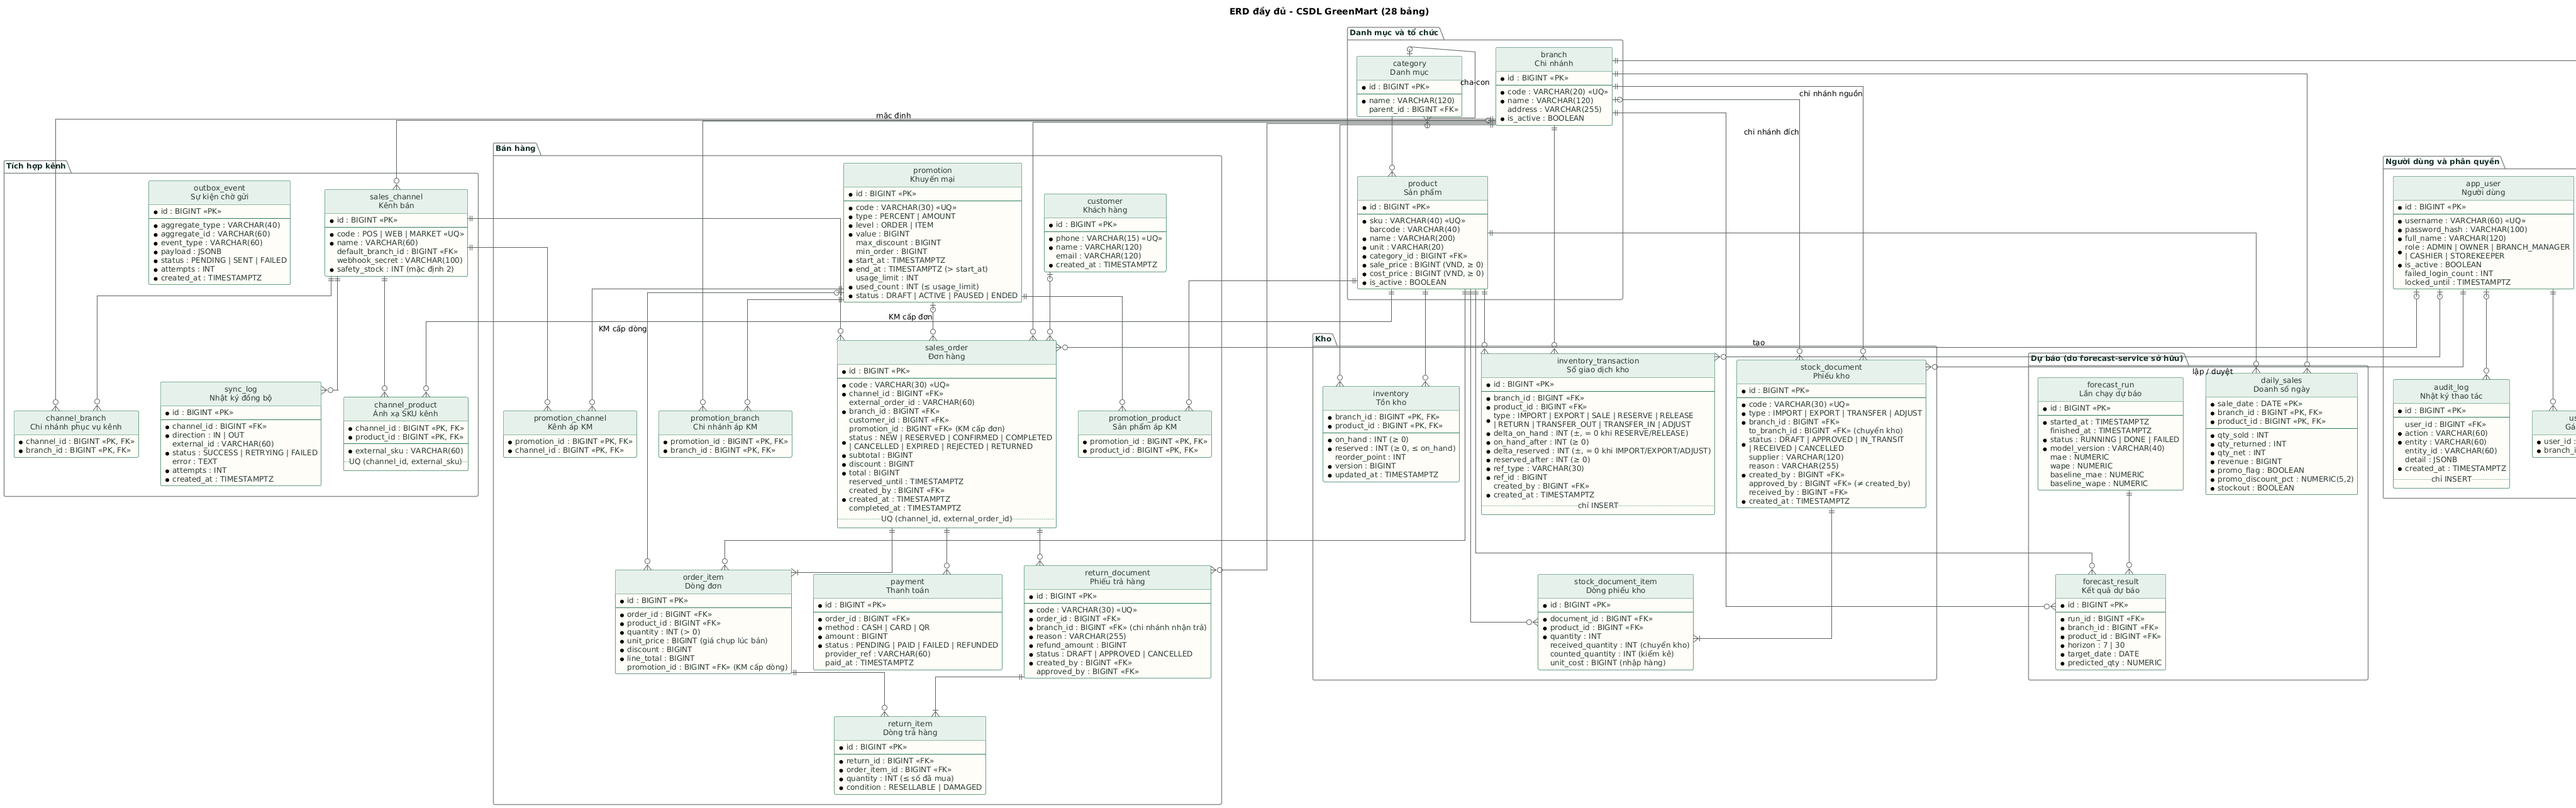
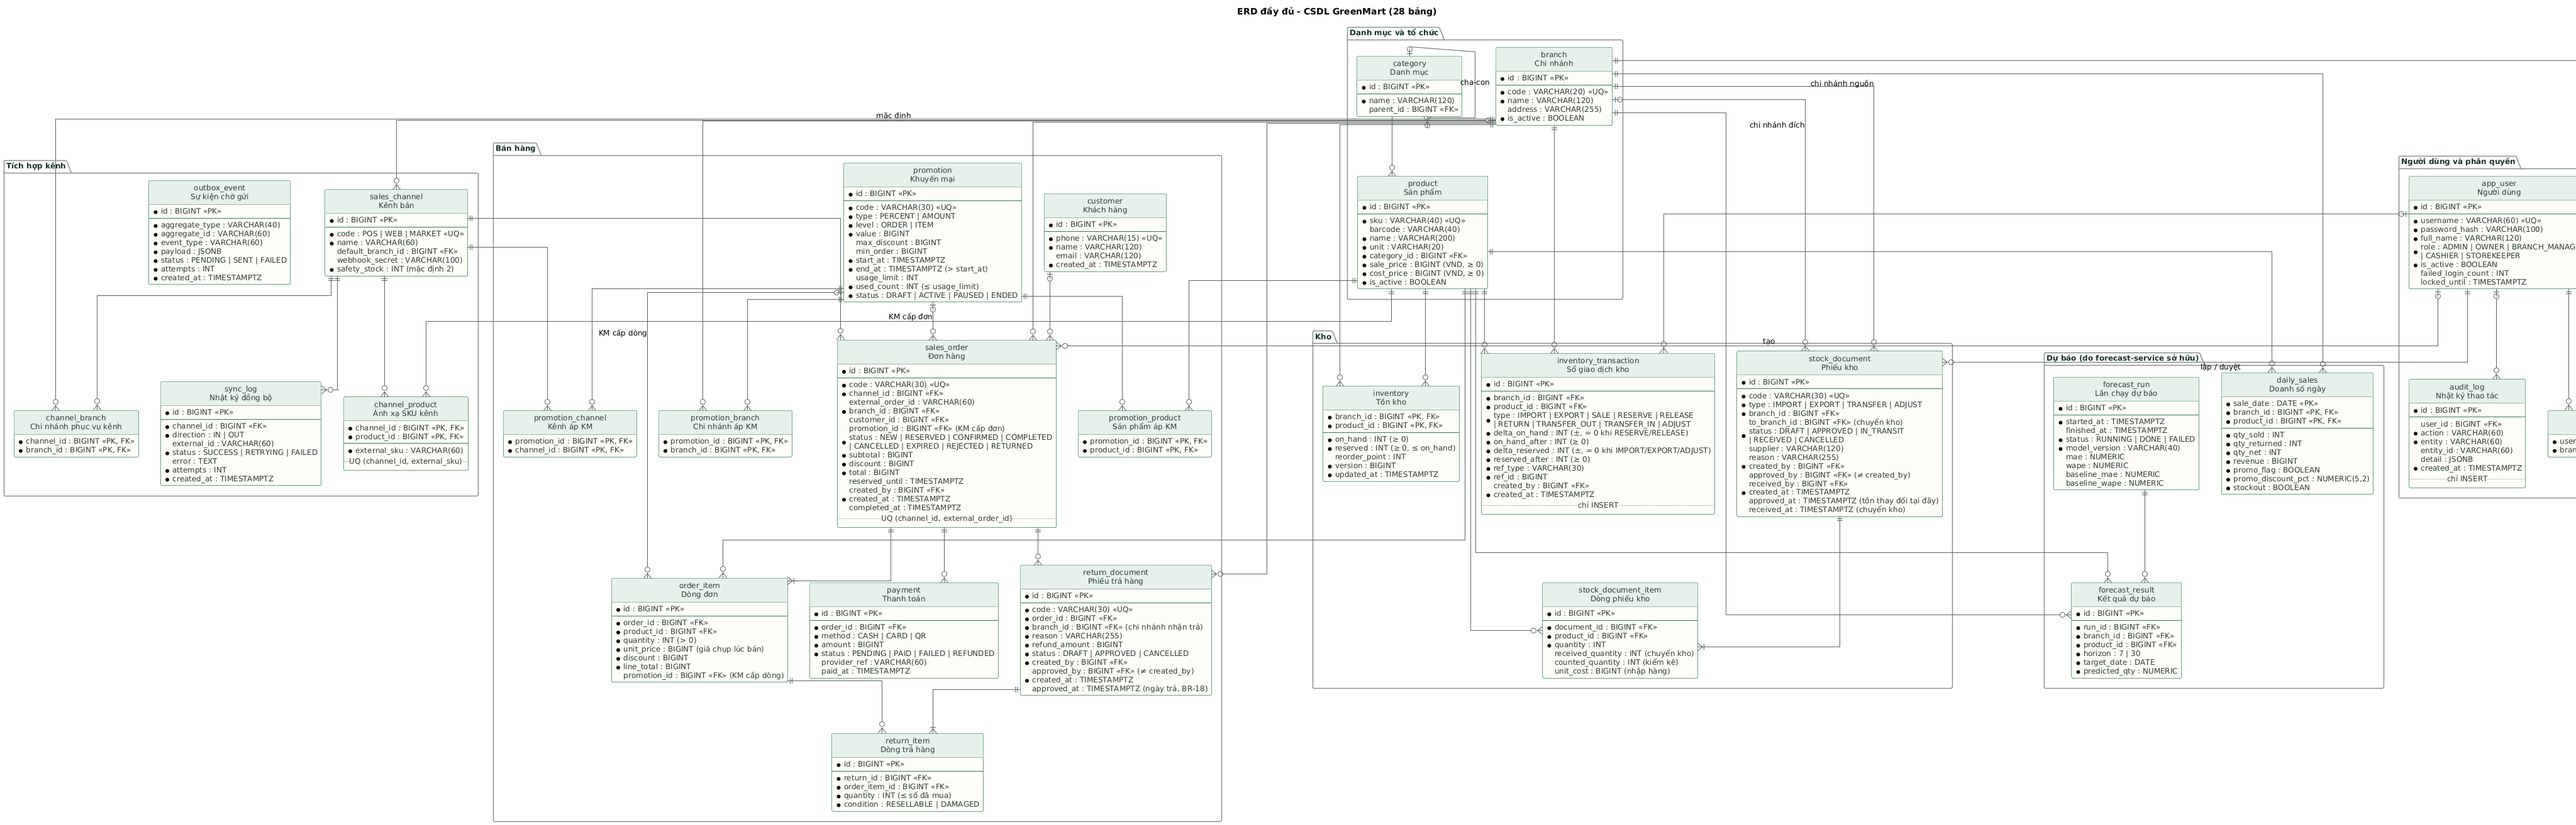
docs: thêm cột thời gian cho phiếu trả hàng và phiếu kho vào ERD, SRS 1.2 (#9)
return_document thêm created_at, approved_at để kiểm tra hạn trả 7 ngày (BR-10)
và ghi nhận ngày trả cho BR-18; stock_document thêm approved_at, received_at.

diff --git a/docs/requirements/SRS.md b/docs/requirements/SRS.md
@@ -1,6 +1,6 @@
 # SRS – Hệ thống GreenMart (DT03)
 
-**Phiên bản:** 1.0 · **Ngày:** 27/10/2026 · **Người soạn:** Nguyễn Đỗ Khải (BA/Lead)
+**Phiên bản:** 1.2 · **Ngày:** 31/10/2026 · **Người soạn:** Nguyễn Đỗ Khải (BA/Lead)
 
 Tài liệu này đặc tả toàn bộ yêu cầu của hệ thống GreenMart: là căn cứ để 8 thành viên phát triển, để QA viết test và để hội đồng nghiệm thu. Mọi yêu cầu có mã định danh, độ ưu tiên và tiêu chí kiểm chứng; mọi thay đổi phải qua BA/Lead và được ghi vào lịch sử phiên bản ở cuối tài liệu.
 
@@ -385,8 +385,8 @@ Dữ liệu lưu trong PostgreSQL, quản lý schema bằng migration Flyway; ba
 | payment | id, order\_id, method, amount, status, paid\_at | amount ≥ 0 |
 | inventory | branch\_id, product\_id, on\_hand, reserved, reorder\_point, version | khóa (branch\_id, product\_id); CHECK on\_hand ≥ 0, reserved ≥ 0, reserved ≤ on\_hand |
 | inventory\_transaction | id, branch\_id, product\_id, type, delta\_on\_hand, on\_hand\_after, delta\_reserved, reserved\_after, ref\_type, ref\_id, created\_by, created\_at | chỉ INSERT; ghi riêng thay đổi tồn thực và tồn giữ chỗ; on\_hand\_after ≥ 0, reserved\_after ≥ 0 |
-| stock\_document (+ item) | id, code, type, branch\_id, to\_branch\_id, status, created\_by, approved\_by; dòng: product\_id, quantity, received\_quantity, unit\_cost | approved\_by ≠ created\_by |
-| return\_document (+ item) | id, order\_id, branch\_id, reason, refund\_amount, status; dòng: order\_item\_id, quantity, condition | tổng số trả ≤ số đã mua |
+| stock\_document (+ item) | id, code, type, branch\_id, to\_branch\_id, status, created\_by, approved\_by, received\_by, created\_at, approved\_at, received\_at; dòng: product\_id, quantity, received\_quantity, unit\_cost | approved\_by ≠ created\_by; approved\_at có khi và chỉ khi đã duyệt; received\_at chỉ với TRANSFER đã nhận |
+| return\_document (+ item) | id, order\_id, branch\_id, reason, refund\_amount, status, created\_by, approved\_by, created\_at, approved\_at; dòng: order\_item\_id, quantity, condition | tổng số trả ≤ số đã mua; approved\_by ≠ created\_by; approved\_at là ngày trả dùng cho BR-18; created\_at ≤ completed\_at của đơn + 7 ngày (BR-10) |
 | audit\_log | id, user\_id, action, entity, entity\_id, detail, created\_at | chỉ INSERT |
 | outbox\_event, sync\_log | sự kiện chờ gửi; nhật ký đồng bộ với kênh |  |
 | daily\_sales | sale\_date, branch\_id, product\_id, qty\_sold, qty\_returned, qty\_net, revenue, promo\_flag, promo\_discount\_pct, stockout | khóa (sale\_date, branch\_id, product\_id) |
@@ -524,3 +524,4 @@ Các giá trị dưới đây đang là giả định của nhóm; khi giảng v
 | --- | --- | --- | --- |
 | 1.0 | 27/10/2026 | BA/Lead | Phiên bản đầu tiên: 42 yêu cầu chức năng, 14 phi chức năng, 19 quy tắc nghiệp vụ, 10 use case, 6 tiêu chí nghiệm thu |
 | 1.1 | 28/10/2026 | BA/Lead | Mục 7.1: `inventory_transaction` ghi riêng `delta_on_hand`/`on_hand_after` và `delta_reserved`/`reserved_after` thay cho `quantity`/`balance_after` (theo migration V1, PR #201) |
+| 1.2 | 31/10/2026 | BA/Lead | Mục 7.1: `return_document` thêm `created_at`, `approved_at` (kiểm tra hạn trả 7 ngày BR-10, ghi nhận ngày trả cho BR-18); `stock_document` thêm `approved_at`, `received_at`. Áp dụng bằng migration V4 |

diff --git a/docs/design/erd/README.md b/docs/design/erd/README.md
@@ -22,7 +22,8 @@ ERD mức logic của toàn hệ thống, là bản chuẩn để viết migrati
 | inventory | `on_hand >= 0`, `reserved >= 0`, `reserved <= on_hand` | Không tồn âm (BR-01, AC-02) |
 | sales_order | `UNIQUE (channel_id, external_order_id)` | Chống trùng đơn từ kênh (BR-05) |
 | channel_product | `UNIQUE (channel_id, external_sku)` | Một SKU kênh chỉ ứng với một sản phẩm |
-| stock_document | `approved_by <> created_by` | Người lập không tự duyệt (BR-13) |
+| stock_document, return_document | `approved_by <> created_by` | Người lập không tự duyệt (BR-13) |
+| stock_document, return_document | `approved_at` có giá trị khi và chỉ khi `status` đã duyệt (`APPROVED` trở đi) | Biết thời điểm tồn thay đổi và ngày trả hàng (BR-18) |
 | inventory_transaction, audit_log | Chỉ INSERT, không UPDATE/DELETE | Truy vết (BR-06) |
 | product, customer, app_user | Không xóa cứng khi đã có giao dịch, dùng `is_active` | Giữ lịch sử |
 | Tiền | `BIGINT` (VND), không dùng số thực | Tránh sai số làm tròn |
@@ -36,8 +37,9 @@ ERD mức logic của toàn hệ thống, là bản chuẩn để viết migrati
 - `promotion_product`, `promotion_branch`, `promotion_channel`: tách phạm vi khuyến mại thành bảng liên kết thay vì lưu danh sách trong một cột.
 - `channel_branch`: danh sách chi nhánh phục vụ mỗi kênh, dùng cho phân bổ đơn (BR-14) và tính tồn đẩy ra kênh (BR-15).
 - Thêm cột: `app_user.failed_login_count`, `locked_until` (khóa sau 5 lần sai); `stock_document.received_by`, `reason`; `stock_document_item.counted_quantity`; `payment.status`.
+- Thêm cột thời gian (31/10, SRS 1.2, migration V4): `return_document.created_at`, `approved_at`; `stock_document.approved_at`, `received_at`.
 
-SRS sẽ được cập nhật theo ở phiên bản 1.1.
+SRS đã cập nhật theo ở phiên bản 1.1 và 1.2.
 
 ## Sửa ERD
 
